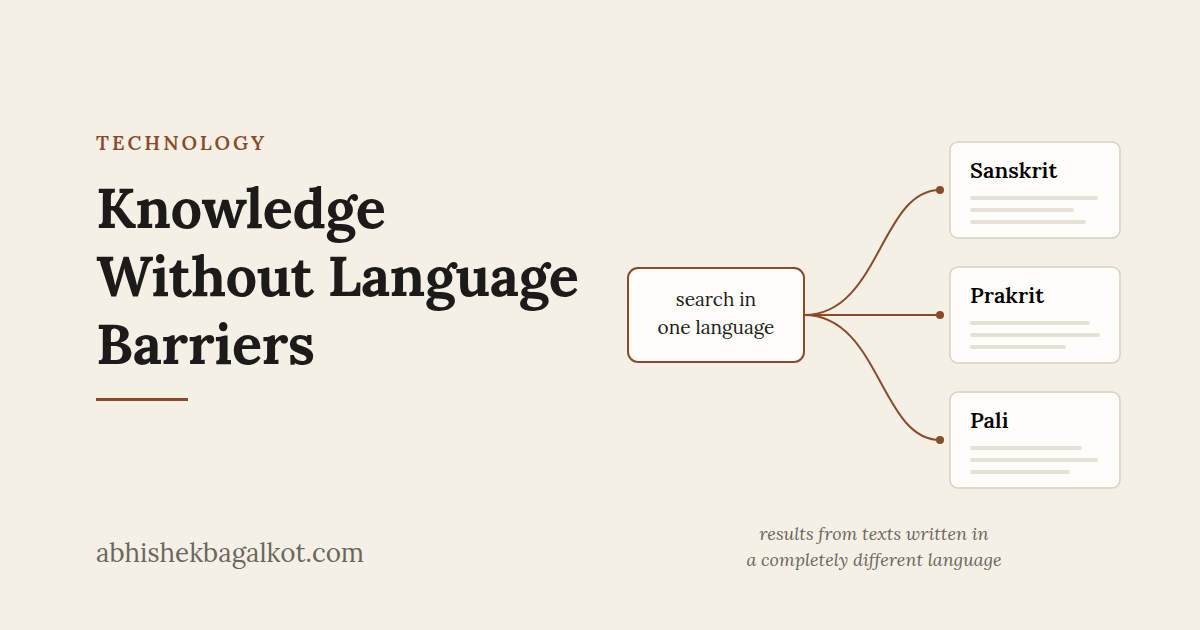
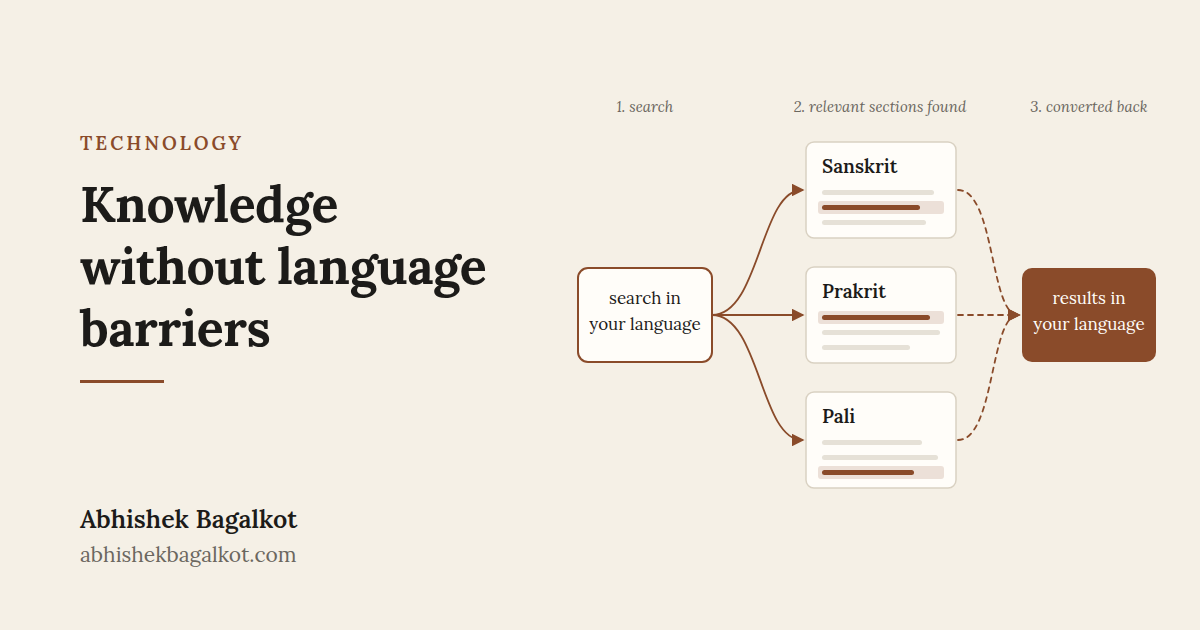
Redraw diagram: search, relevant sections found, converted back
Claude-Session: https://claude.ai/code/session_01DVgjJn8PZvt8j4pejgnES5

diff --git a/content/posts/knowledge-without-language-barriers.md b/content/posts/knowledge-without-language-barriers.md
@@ -14,7 +14,7 @@ This is very unfortunate. Personally, I regret that I am unable to read and unde
 
 Yet, with the use of technology, it should be possible to search for ideas in one language and get results from texts written in a completely different language. This would make all knowledge useful to everyone, irrespective of their language training.
 
-{{< figure src="img/knowledge-without-language-barriers.png" alt="A diagram: a search in one language branches out to texts in Sanskrit, Prakrit and Pali, with the caption: results from texts written in a completely different language." >}}
+{{< figure src="img/knowledge-without-language-barriers.png" alt="Diagram: a search in your language finds relevant sections in Sanskrit, Prakrit and Pali texts, which are converted back into results in your language." >}}
 
 I am curious whether this is possible with existing technology or newer tools like LLMs.
 
